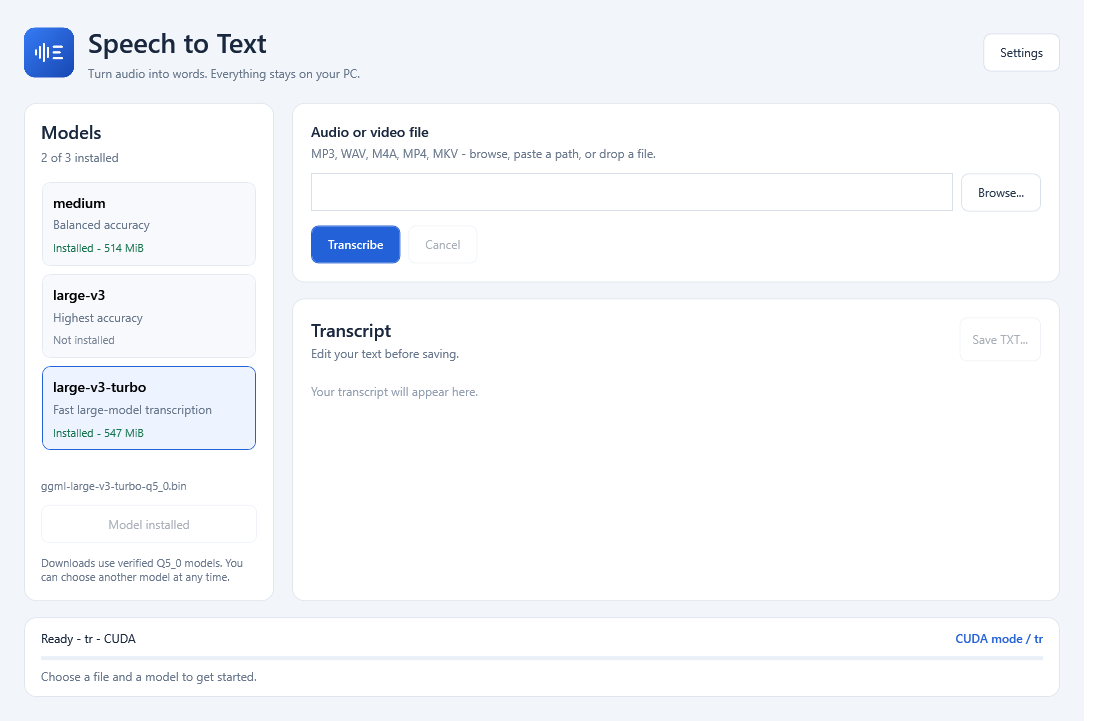
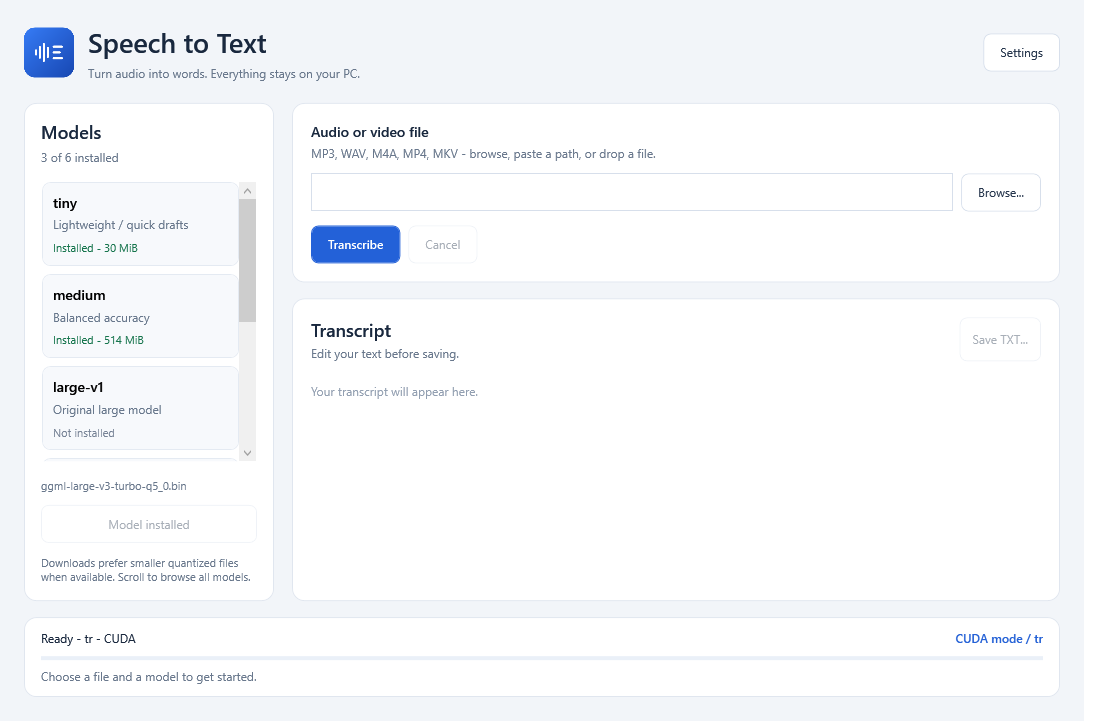
Add tiny and legacy large models for v0.1.6

diff --git a/src/SubtitleStudio/MainWindow.xaml b/src/SubtitleStudio/MainWindow.xaml
@@ -15,7 +15,7 @@
    <Border Style="{StaticResource Card}" Padding="16">
     <DockPanel>
      <StackPanel DockPanel.Dock="Top"><TextBlock Text="Models" FontSize="18" FontWeight="SemiBold"/><TextBlock x:Name="ModelCountLabel" Foreground="#69788D" Margin="0,5,0,16"/></StackPanel>
-     <StackPanel DockPanel.Dock="Bottom" Margin="0,16,0,0"><TextBlock x:Name="ModelDetails" TextWrapping="Wrap" FontSize="11" Foreground="#69788D" Margin="0,0,0,12"/><Button x:Name="DownloadButton" Content="Download selected model" Click="DownloadSelectedModel" Padding="10"/><TextBlock Text="Downloads use verified Q5_0 models. You can choose another model at any time." FontSize="11" Foreground="#69788D" TextWrapping="Wrap" Margin="0,12,0,0"/></StackPanel>
+     <StackPanel DockPanel.Dock="Bottom" Margin="0,16,0,0"><TextBlock x:Name="ModelDetails" TextWrapping="Wrap" FontSize="11" Foreground="#69788D" Margin="0,0,0,12"/><Button x:Name="DownloadButton" Content="Download selected model" Click="DownloadSelectedModel" Padding="10"/><TextBlock Text="Downloads prefer smaller quantized files when available. Scroll to browse all models." FontSize="11" Foreground="#69788D" TextWrapping="Wrap" Margin="0,12,0,0"/></StackPanel>
      <ListBox x:Name="ModelList" BorderThickness="0" Background="Transparent" SelectionChanged="ModelChanged" SelectedValuePath="Name" HorizontalContentAlignment="Stretch" AutomationProperties.Name="Transcription model">
       <ListBox.ItemContainerStyle><Style TargetType="ListBoxItem"><Setter Property="Margin" Value="0,0,0,8"/><Setter Property="Padding" Value="10"/><Setter Property="Template"><Setter.Value><ControlTemplate TargetType="ListBoxItem"><Border x:Name="ModelCard" Padding="{TemplateBinding Padding}" CornerRadius="8" Background="#F7F9FC" BorderBrush="#E4EAF2" BorderThickness="1"><ContentPresenter/></Border><ControlTemplate.Triggers><Trigger Property="IsSelected" Value="True"><Setter TargetName="ModelCard" Property="Background" Value="#EDF3FF"/><Setter TargetName="ModelCard" Property="BorderBrush" Value="#2361D8"/></Trigger><Trigger Property="IsKeyboardFocused" Value="True"><Setter TargetName="ModelCard" Property="BorderThickness" Value="2"/></Trigger></ControlTemplate.Triggers></ControlTemplate></Setter.Value></Setter></Style></ListBox.ItemContainerStyle>
       <ListBox.ItemTemplate><DataTemplate><StackPanel><TextBlock Text="{Binding Name}" FontWeight="SemiBold" FontSize="14"/><TextBlock Text="{Binding Description}" Foreground="#69788D" Margin="0,5,0,8"/><TextBlock Text="{Binding Status}" FontSize="11"><TextBlock.Style><Style TargetType="TextBlock"><Setter Property="Foreground" Value="#788497"/><Style.Triggers><DataTrigger Binding="{Binding Installed}" Value="True"><Setter Property="Foreground" Value="#16754D"/></DataTrigger></Style.Triggers></Style></TextBlock.Style></TextBlock></StackPanel></DataTemplate></ListBox.ItemTemplate>

diff --git a/tests/Program.cs b/tests/Program.cs
@@ -24,6 +24,16 @@ try
     var settings = new Settings { ModelFolder = folder };
     Check(settings.ModelPath("large-v3") == null, "large-v3 must not resolve to turbo.");
     Check(settings.ModelPath("large-v3-turbo") != null, "Quantized model discovery failed.");
+    var officialFiles = new[] { "ggml-tiny-q5_1.bin", "ggml-tiny.bin", "ggml-medium-q5_0.bin", "ggml-large-v1.bin", "ggml-large-v2-q5_0.bin", "ggml-large-v2.bin", "ggml-large-v3-q5_0.bin", "ggml-large-v3-turbo-q5_0.bin" };
+    Check(ModelDownload.SelectFile("tiny", officialFiles) == "ggml-tiny-q5_1.bin", "Tiny must use its available Q5_1 download.");
+    Check(ModelDownload.SelectFile("large-v1", officialFiles) == "ggml-large-v1.bin", "Large-v1 must use the standard model when quantized files are unavailable.");
+    Check(ModelDownload.SelectFile("large-v2", officialFiles) == "ggml-large-v2-q5_0.bin", "Large-v2 should prefer Q5_0.");
+    foreach (var model in Transcriber.Models)
+    {
+        var name = ModelDownload.SelectFile(model, officialFiles);
+        File.WriteAllText(Path.Combine(folder, name), "test");
+        Check(Path.GetFileName(settings.ModelPath(model)) == name, "Model discovery chose the wrong family: " + model);
+    }
     var marker = Path.Combine(folder, "should-not-exist");
     var literal = "hello; New-Item '" + marker + "'";
     var script = Path.Combine(folder, "echo.ps1");
@@ -62,7 +72,7 @@ try
                 Check(window.Title.StartsWith("Speech to Text"), "Window product name is incorrect.");
                 Check(window.Icon != null, "App window icon was not loaded.");
                 var list = (System.Windows.Controls.ListBox)window.FindName("ModelList");
-                Check(list.Items.Count == 3, "Model library must display all supported families.");
+                Check(list.Items.Count == Transcriber.Models.Length && list.Items.Count == 6, "Model library must display all six supported families.");
                 Check(list.SelectedValue is string selected && Transcriber.Models.Contains(selected), "Selected model is missing.");
                 var button = (System.Windows.Controls.Button)window.FindName("DownloadButton");
                 Check(button.IsEnabled == (Settings.Load().ModelPath((string)list.SelectedValue) == null), "Download availability does not match installed model state.");
@@ -101,6 +111,22 @@ try
         thread.Start(); thread.Join();
         if (failure != null) throw failure;
         Console.WriteLine("PASS: WPF models, transcript state, settings tabs/preferences, rendered previews.");
+    }
+    if (args.Contains("--tiny-smoke"))
+    {
+        var preferences = Settings.Load();
+        preferences.Model = "tiny";
+        preferences.UseCuda = true;
+        var progress = new Progress<string>(Console.WriteLine);
+        if (preferences.ModelPath("tiny") == null)
+            await ModelDownload.Download("tiny", preferences.ModelFolder, progress, CancellationToken.None);
+        var outputFolder = Path.Combine(Settings.ResultsFolder, "tiny-smoke-" + Guid.NewGuid().ToString("N"));
+        Directory.CreateDirectory(outputFolder);
+        var clip = Path.Combine(outputFolder, "tiny-sample.wav");
+        await ProcessRunner.Run(preferences.FFmpegPath, ["-nostdin", "-hide_banner", "-y", "-i", Path.Combine(Settings.Root, "sample_1min.mp3"), "-t", "90", "-ar", "16000", "-ac", "1", "-c:a", "pcm_s16le", clip], CancellationToken.None);
+        var result = await new Transcriber().RunAsync(clip, preferences, outputFolder, progress, CancellationToken.None);
+        Check(result.Backend == "CUDA" && result.NvidiaProcessVerified && File.Exists(result.TxtPath), "Tiny CUDA smoke test failed.");
+        Console.WriteLine($"PASS: tiny CUDA, audio={result.AudioSeconds:F2}s, transcription={result.TranscriptionSeconds:F2}s, RTF={result.RealtimeFactor:F4}");
     }
     if (args.Contains("--install-tools"))
     {

diff --git a/src/SubtitleStudio/ModelDownload.cs b/src/SubtitleStudio/ModelDownload.cs
@@ -7,15 +7,23 @@ namespace SubtitleStudio;
 
 public static class ModelDownload
 {
+    public static string SelectFile(string model, IEnumerable<string> available)
+    {
+        if (!Transcriber.Models.Contains(model)) throw new ArgumentException("Unknown model.");
+        var files = available.ToHashSet(StringComparer.Ordinal);
+        return new[] { $"ggml-{model}-q5_0.bin", $"ggml-{model}-q5_1.bin", $"ggml-{model}.bin" }.FirstOrDefault(files.Contains)
+            ?? throw new IOException($"No supported official download is available for {model}.");
+    }
     public static async Task Download(string model, string folder, IProgress<string> progress, CancellationToken token)
     {
         if (!Transcriber.Models.Contains(model)) throw new ArgumentException("Unknown model.");
         Directory.CreateDirectory(folder);
-        var name = $"ggml-{model}-q5_0.bin";
-        var path = Path.Combine(folder, name);
-        if (File.Exists(path)) throw new IOException("This model already exists. Choose another model or model folder.");
         using var client = new HttpClient { Timeout = TimeSpan.FromHours(6) };
         using var metadata = JsonDocument.Parse(await client.GetStringAsync("https://huggingface.co/api/models/ggerganov/whisper.cpp/tree/main?limit=1000", token));
+        var name = SelectFile(model, metadata.RootElement.EnumerateArray().Select(x => x.GetProperty("path").GetString()!));
+        var path = Path.Combine(folder, name);
+        if (File.Exists(path)) throw new IOException("This model already exists. Choose another model or model folder.");
+        progress.Report("Selected official model file: " + name);
         var entry = metadata.RootElement.EnumerateArray().First(x => x.GetProperty("path").GetString() == name);
         var hash = entry.GetProperty("lfs").GetProperty("oid").GetString()!;
         var size = entry.GetProperty("size").GetInt64();

diff --git a/src/SubtitleStudio/MainWindow.xaml.cs b/src/SubtitleStudio/MainWindow.xaml.cs
@@ -43,7 +43,15 @@ public partial class MainWindow : Window
                 return new
                 {
                     Name = name,
-                    Description = name == "medium" ? "Balanced accuracy" : name == "large-v3" ? "Highest accuracy" : "Fast large-model transcription",
+                    Description = name switch
+                    {
+                        "tiny" => "Lightweight / quick drafts",
+                        "medium" => "Balanced accuracy",
+                        "large-v1" => "Original large model",
+                        "large-v2" => "Second-generation large",
+                        "large-v3" => "Highest accuracy",
+                        _ => "Fast large-model transcription"
+                    },
                     Installed = path != null,
                     Status = path == null ? "Not installed" : $"Installed - {new FileInfo(path).Length / 1048576} MiB"
                 };

diff --git a/src/SubtitleStudio/Transcriber.cs b/src/SubtitleStudio/Transcriber.cs
@@ -9,7 +9,7 @@ public sealed record TranscriptionResult(string Input, string Model, string Back
 
 public sealed class Transcriber
 {
-    public static readonly string[] Models = ["medium", "large-v3", "large-v3-turbo"];
+    public static readonly string[] Models = ["tiny", "medium", "large-v1", "large-v2", "large-v3", "large-v3-turbo"];
     public static bool Supported(string path) => new[] { ".mp4", ".mkv", ".mp3", ".wav", ".m4a" }.Contains(Path.GetExtension(path).ToLowerInvariant());
 
     public async Task<TranscriptionResult> RunAsync(string input, Settings settings, string outputFolder, IProgress<string> progress, CancellationToken token)

diff --git a/README.md b/README.md
@@ -20,7 +20,7 @@ Paste a media path, click **Transcribe**, edit the text, and **Save TXT**. No Py
 - Fast NVIDIA CUDA transcription with verified GPU use; CPU mode is available by explicit selection.
 - Local processing with no cloud API, API key, or recording upload.
 - MP3, WAV, M4A, MP4, and MKV input with automatic FFmpeg audio preparation.
-- Select and download medium, large-v3, or large-v3-turbo from the model library.
+- Select and download tiny, medium, large-v1, large-v2, large-v3, or large-v3-turbo from the model library.
 - Editable transcripts, automatic TXT/SRT output, live progress, and cancellation.
 - Self-contained Windows installer and portable ZIP; no .NET SDK required for end users.
 
@@ -31,7 +31,7 @@ Paste a media path, click **Transcribe**, edit the text, and **Save TXT**. No Py
 
 **[Download the Windows installer](https://github.com/VusalAbdurahmanovX/Speech-to-text/releases/latest)** | **[Portable ZIP and checksums](https://github.com/VusalAbdurahmanovX/Speech-to-text/releases/latest)**
 
-Download **Speech-to-Text-Setup-0.1.5-win-x64.exe** from its GitHub Releases page. Run the installer and launch the app from the Start menu. The installer includes .NET; end users do not need an SDK. A portable ZIP is also generated: extract the entire folder and launch `SubtitleStudio.exe`.
+Download **Speech-to-Text-Setup-0.1.6-win-x64.exe** from its GitHub Releases page. Run the installer and launch the app from the Start menu. The installer includes .NET; end users do not need an SDK. A portable ZIP is also generated: extract the entire folder and launch `SubtitleStudio.exe`.
 
 1. Open **Settings > Tools & paths** and click **Install transcription tools**. The app downloads the official whisper.cpp CUDA build and BtbN's LGPL FFmpeg build directly from upstream. Both archives are checked against upstream SHA-256 digests before extraction.
 2. Select a model and click **Download selected model**. **large-v3-turbo** is recommended for the first run; its Q5_0 model is about 548 MiB. Model downloads are also SHA-256 checked.
@@ -103,7 +103,18 @@ Cancel stops the current FFmpeg/whisper process tree and keeps the existing text
 
 ## Models and backend
 
-Supported families are **medium**, **large-v3**, and **large-v3-turbo**. The main Models panel lists installed model files. Automatic downloads use Q5_0 variants from [ggerganov/whisper.cpp](https://huggingface.co/ggerganov/whisper.cpp). Standard files such as `ggml-medium.bin`, `ggml-large-v3.bin`, and `ggml-large-v3-turbo.bin`, and `-q*.bin` variants, are also discovered. Existing model files are not overwritten.
+Supported families are **tiny**, **medium**, **large-v1**, **large-v2**, **large-v3**, and **large-v3-turbo**. The main Models panel lists installed model files. Automatic downloads select available official files from [ggerganov/whisper.cpp](https://huggingface.co/ggerganov/whisper.cpp), preferring Q5_0, then Q5_1, then the standard model. Existing model files are not overwritten.
+
+| Model | Automatic download | Approximate size |
+| --- | --- | --- |
+| tiny | Q5_1 | 31 MiB |
+| medium | Q5_0 | 514 MiB |
+| large-v1 | Standard | 2.9 GiB |
+| large-v2 | Q5_0 | 1,031 MiB |
+| large-v3 | Q5_0 | 1,031 MiB |
+| large-v3-turbo | Q5_0 | 548 MiB |
+
+Tiny is useful for fast drafts with lower accuracy. The older large generations are named large-v1 and large-v2. Large-v1 has no official quantized download and requires substantially more memory; large-v3-turbo remains the default. Standard `ggml-<model>.bin` and quantized `ggml-<model>-q*.bin` files are discovered automatically.
 
 Tool setup pins the official whisper.cpp **b5454** asset `whisper-bin-win-cuda-12.4.0-x64.zip`. Keep all DLLs beside its executable. FFmpeg is obtained from BtbN's latest `ffmpeg-master-latest-win64-lgpl.zip`. You may instead select your own executables in Settings. For a source-built whisper.cpp backend, enable `-DGGML_CUDA=ON` in CMake.
 
@@ -152,7 +163,7 @@ You can also skip `setup.ps1` and use the app's Settings to download tools/model
 ```powershell
 .\package.ps1
 # Override version:
-.\package.ps1 -Version 0.1.5
+.\package.ps1 -Version 0.1.6
 # Portable package only:
 .\package.ps1 -SkipInstaller
 ```

diff --git a/installer/GETTING_STARTED.md b/installer/GETTING_STARTED.md
@@ -2,7 +2,7 @@
 
 1. Open Speech to Text from the Start menu (or SubtitleStudio.exe in the portable folder).
 2. Open **Settings > Tools & paths** and click **Install transcription tools**. This downloads the official CUDA-enabled whisper.cpp build and an LGPL FFmpeg build directly from their upstream GitHub releases. Downloads are SHA-256 checked.
-3. Select **large-v3-turbo**, then **Download selected model**. The initial model is approximately 548 MiB. Tools require approximately 821 MiB of downloads and more disk space after extraction. Allow several GB of free space.
+3. Select **large-v3-turbo**, then **Download selected model**. The initial model is approximately 548 MiB. You can also choose tiny (31 MiB), medium, large-v1, large-v2, or large-v3. Large-v1 downloads the full 2.9 GiB model and needs more memory. Tools require approximately 821 MiB of downloads and more disk space after extraction. Allow several GB of free space.
 4. Choose the spoken language. Turkish (`tr`) is the default. Click **Save changes**.
 5. Select your preferred model in the main **Models** panel. Installed models show their size; other models can be downloaded using **Download selected model**.
 6. Browse for or drop your media file, then click **Transcribe**.
